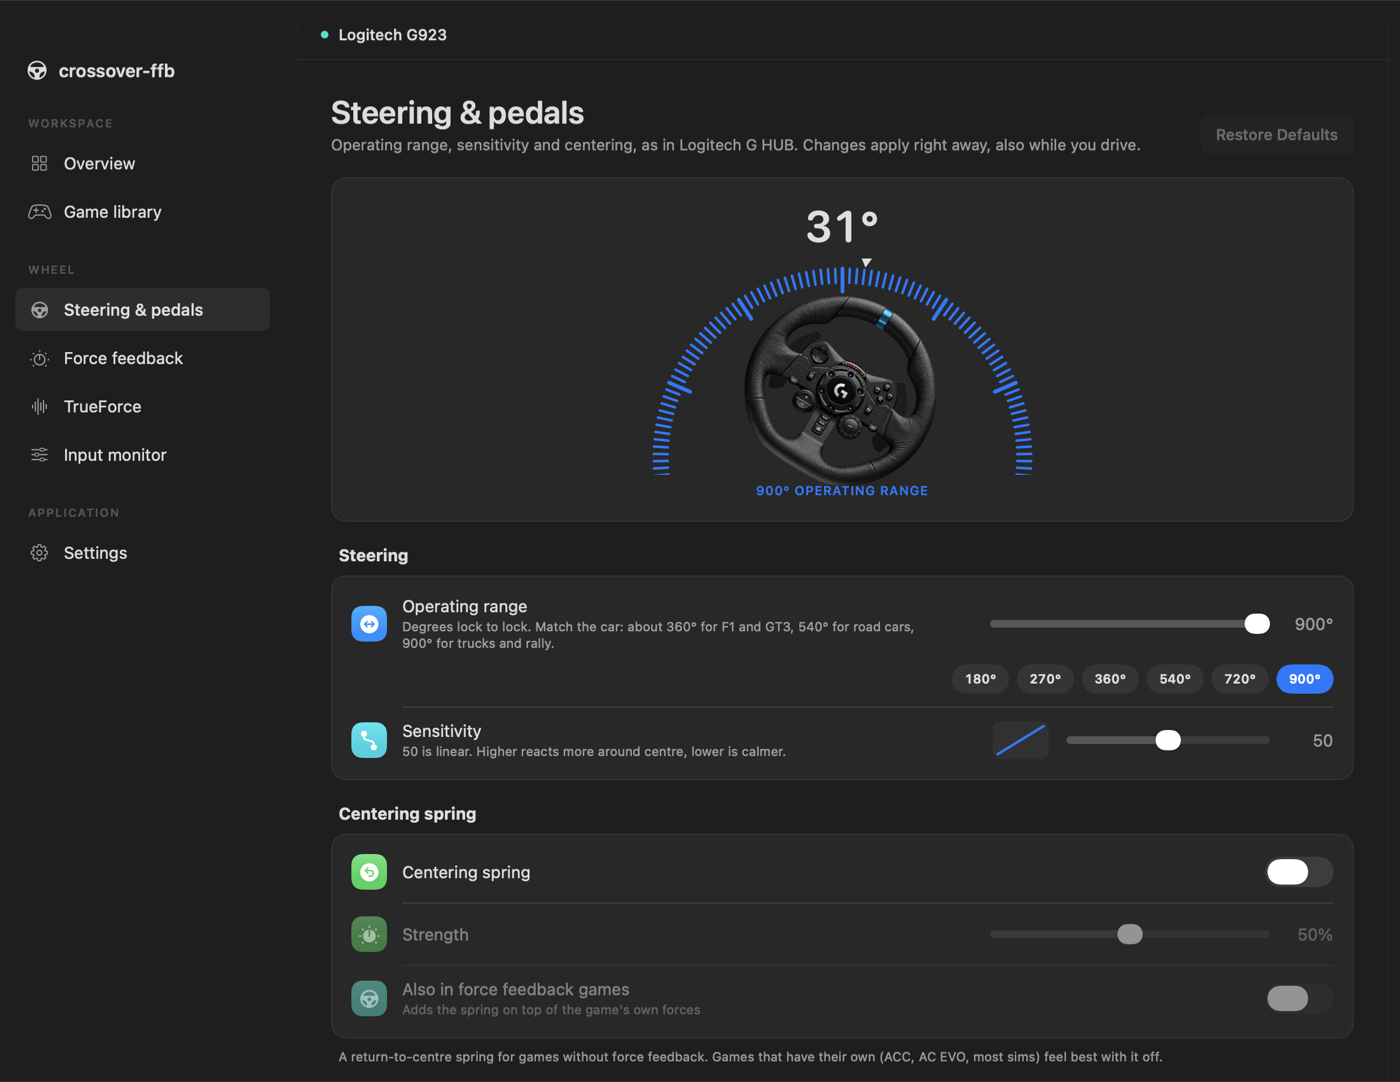
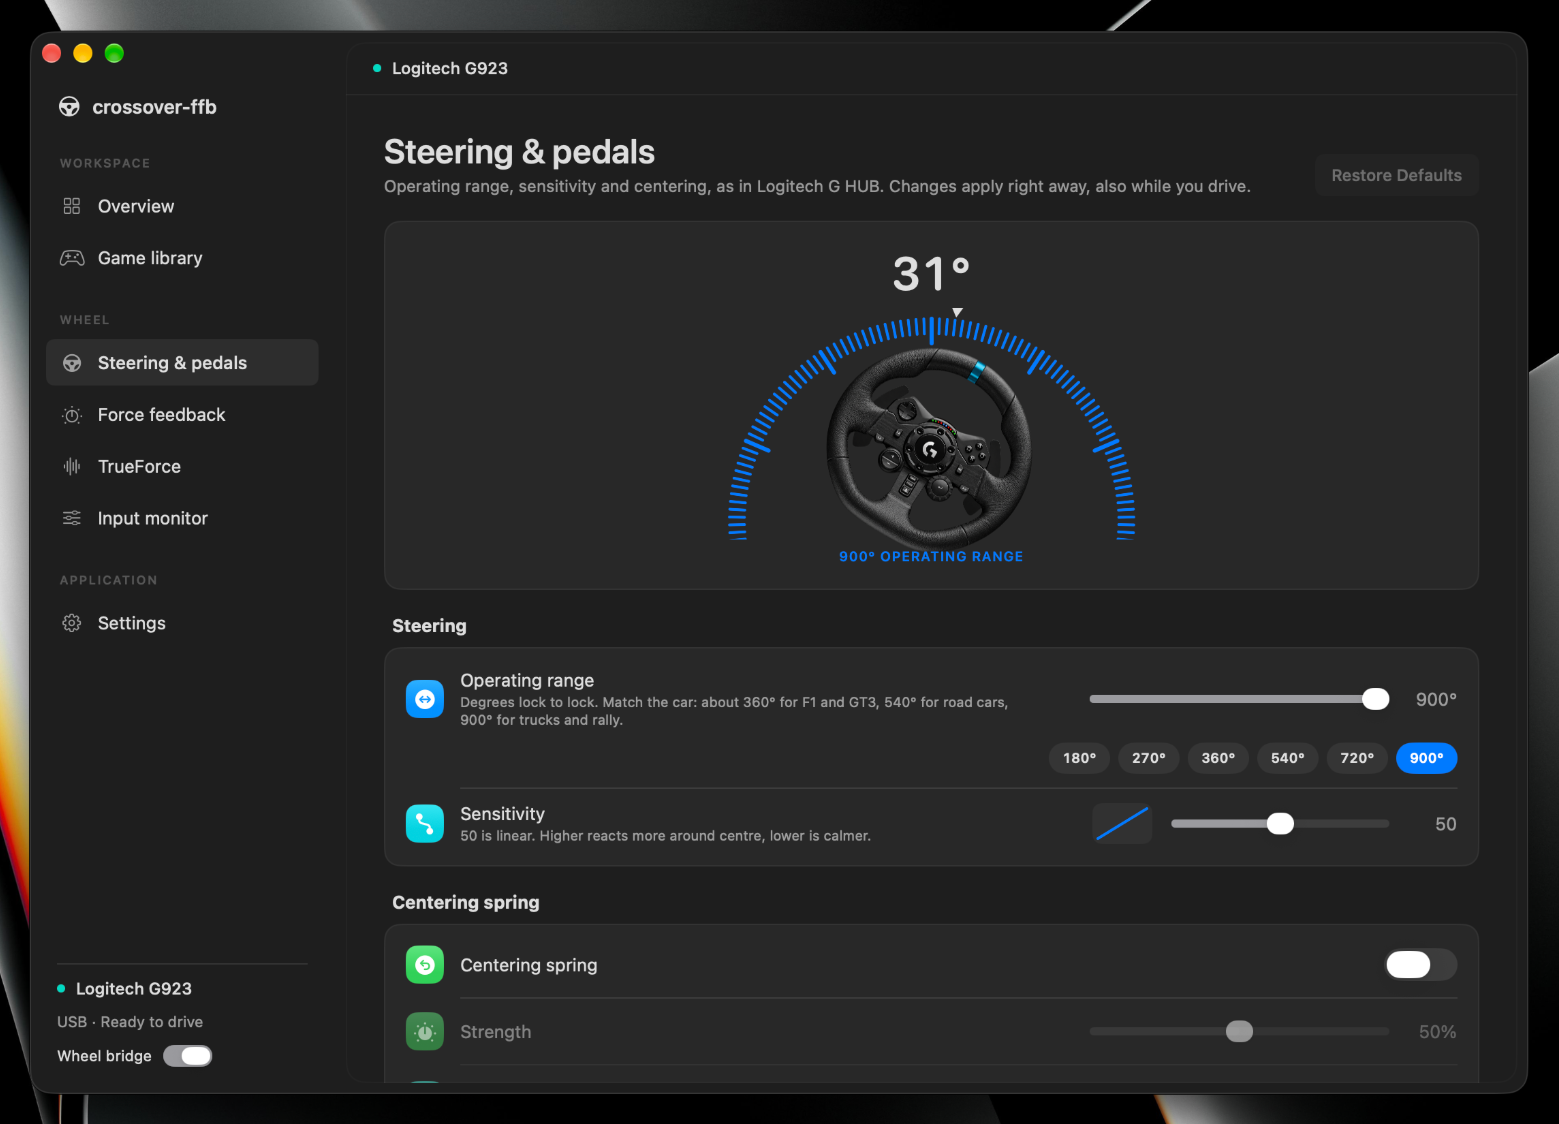
Add How it works diagram and new UI screenshots to README
Replaces the ASCII architecture sketch with a diagram rendered in the app's style, kept reproducible in scripts/how-it-works-diagram.swift, and updates the Steering & pedals and TrueForce screenshots to the new interface.

diff --git a/scripts/how-it-works-diagram.swift b/scripts/how-it-works-diagram.swift
@@ -1,0 +1,107 @@
+// Renders docs/images/how-it-works.png, the README architecture diagram.
+// swiftc scripts/how-it-works-diagram.swift -o /tmp/how-it-works && /tmp/how-it-works docs/images/how-it-works.png
+import AppKit
+import SwiftUI
+
+struct Tile: View {
+    let symbol: String, color: Color
+    var body: some View {
+        Image(systemName: symbol).font(.system(size: 18, weight: .semibold)).foregroundStyle(.white)
+            .frame(width: 40, height: 40)
+            .background(RoundedRectangle(cornerRadius: 11, style: .continuous).fill(color.gradient))
+    }
+}
+struct Node: View {
+    let symbol: String, color: Color, title: String, detail: String
+    var body: some View {
+        VStack(alignment: .leading, spacing: 10) {
+            Tile(symbol: symbol, color: color)
+            VStack(alignment: .leading, spacing: 3) {
+                Text(title).font(.system(size: 16, weight: .semibold)).foregroundStyle(.white)
+                Text(detail).font(.system(size: 12.5)).foregroundStyle(.white.opacity(0.55)).fixedSize(horizontal: false, vertical: true)
+            }
+        }
+        .padding(16).frame(width: 168, height: 168, alignment: .topLeading)
+        .background(RoundedRectangle(cornerRadius: 14, style: .continuous).fill(Color.white.opacity(0.05)))
+        .overlay(RoundedRectangle(cornerRadius: 14, style: .continuous).strokeBorder(Color.white.opacity(0.07)))
+    }
+}
+struct Link: View {
+    let forward: String, back: String
+    var body: some View {
+        VStack(spacing: 7) {
+            arrow(forward, Color(red: 0.25, green: 0.55, blue: 1), right: true)
+            arrow(back, Color(red: 0.35, green: 0.85, blue: 0.75), right: false)
+        }.frame(width: 74).padding(.horizontal, 4)
+    }
+    func arrow(_ label: String, _ color: Color, right: Bool) -> some View {
+        VStack(spacing: 3) {
+            Text(label).font(.system(size: 11, weight: .medium)).foregroundStyle(color).lineLimit(1).fixedSize()
+            HStack(spacing: 0) {
+                if !right { Image(systemName: "chevron.left").font(.system(size: 8, weight: .bold)) }
+                Capsule().frame(height: 2)
+                if right { Image(systemName: "chevron.right").font(.system(size: 8, weight: .bold)) }
+            }.foregroundStyle(color)
+        }
+    }
+}
+struct Zone<Content: View>: View {
+    let title: String
+    var bordered = true
+    @ViewBuilder var content: Content
+    var body: some View {
+        VStack(alignment: .leading, spacing: 12) {
+            Text(title).font(.system(size: 9, weight: .semibold)).tracking(1.2).foregroundStyle(.white.opacity(0.4))
+            HStack(spacing: 0) { content }
+        }
+        .padding(14)
+        .background(RoundedRectangle(cornerRadius: 20, style: .continuous).strokeBorder(Color.white.opacity(bordered ? 0.10 : 0), style: StrokeStyle(lineWidth: 1, dash: [4, 4])))
+    }
+}
+struct Diagram: View {
+    /// Zone title line plus its spacing, so links between zones line up with links inside them.
+    private let titleRow: CGFloat = 23
+    var body: some View {
+        VStack(alignment: .leading, spacing: 18) {
+            HStack(alignment: .center, spacing: 0) {
+                Zone(title: "INSIDE WINE") {
+                    Node(symbol: "flag.checkered", color: .indigo, title: "Windows game", detail: "Running in CrossOver, NotProton or Wine")
+                    Link(forward: "effects", back: "input")
+                    Node(symbol: "puzzlepiece.extension.fill", color: .purple, title: "dinput8.dll", detail: "Bridge next to the .exe. A virtual G923 or G29, plus game telemetry")
+                }
+                Link(forward: "effects", back: "input").padding(.top, titleRow)
+                Zone(title: "BETWEEN THEM", bordered: false) {
+                    Node(symbol: "memorychip.fill", color: .gray, title: "Shared memory", detail: "One small file in /tmp that the bridge and the app both map")
+                }
+                Link(forward: "effects", back: "input").padding(.top, titleRow)
+                Zone(title: "ON YOUR MAC") {
+                    Node(symbol: "menubar.rectangle", color: .teal, title: "crossover-ffb", detail: "Menu bar app. Turns effects into motor force and TrueForce")
+                    Link(forward: "forces", back: "input")
+                    Node(symbol: "steeringwheel", color: .orange, title: "Logitech wheel", detail: "G923 or G29 over USB HID")
+                }
+            }
+            HStack(spacing: 18) {
+                legend(Color(red: 0.25, green: 0.55, blue: 1), "Forces the game asks for, played at 500 Hz (TrueForce at 4 kHz)")
+                legend(Color(red: 0.35, green: 0.85, blue: 0.75), "Steering, pedals and buttons")
+            }.padding(.leading, 4)
+        }
+        .padding(28)
+        .background(RoundedRectangle(cornerRadius: 24, style: .continuous).fill(Color(white: 0.118)))
+        .padding(1)
+    }
+    func legend(_ color: Color, _ text: String) -> some View {
+        HStack(spacing: 7) {
+            Capsule().fill(color).frame(width: 18, height: 3)
+            Text(text).font(.system(size: 11)).foregroundStyle(.white.opacity(0.6))
+        }
+    }
+}
+let app = NSApplication.shared
+MainActor.assumeIsolated {
+    let renderer = ImageRenderer(content: Diagram().environment(\.colorScheme, .dark))
+    renderer.scale = 2
+    guard let image = renderer.nsImage, let tiff = image.tiffRepresentation, let rep = NSBitmapImageRep(data: tiff),
+          let png = rep.representation(using: .png, properties: [:]) else { fatalError("render failed") }
+    try! png.write(to: URL(fileURLWithPath: CommandLine.arguments[1]))
+    print(rep.pixelsWide, rep.pixelsHigh)
+}

diff --git a/README.md b/README.md
@@ -132,10 +132,9 @@ rpm and throttle, suspension and road texture, kerb rumble, tyre-slip judder and
 
 ## How it works
 
-```
- game (Wine) ──DirectInput 8──► dinput8.dll ──shared memory──► crossover-ffb.app ──USB HID──► wheel
-             ◄─ virtual G923/G29 ◄──── input ◄───────────────────── input ◄──────────────
-```
+<p align="center">
+  <img src="docs/images/how-it-works.png" width="900" alt="A Windows game in Wine talks DirectInput 8 to the dinput8.dll bridge. The bridge and the crossover-ffb app share a small file in /tmp. The app drives the Logitech wheel over USB HID. Effects flow towards the wheel, and steering, pedal and button input flows back to the game.">
+</p>
 
 - The installer copies `dinput8.dll` next to the game's .exe and adds a per-game
   `dinput8 = native,builtin` override to the Wine prefix. Any DLL or override that was already
